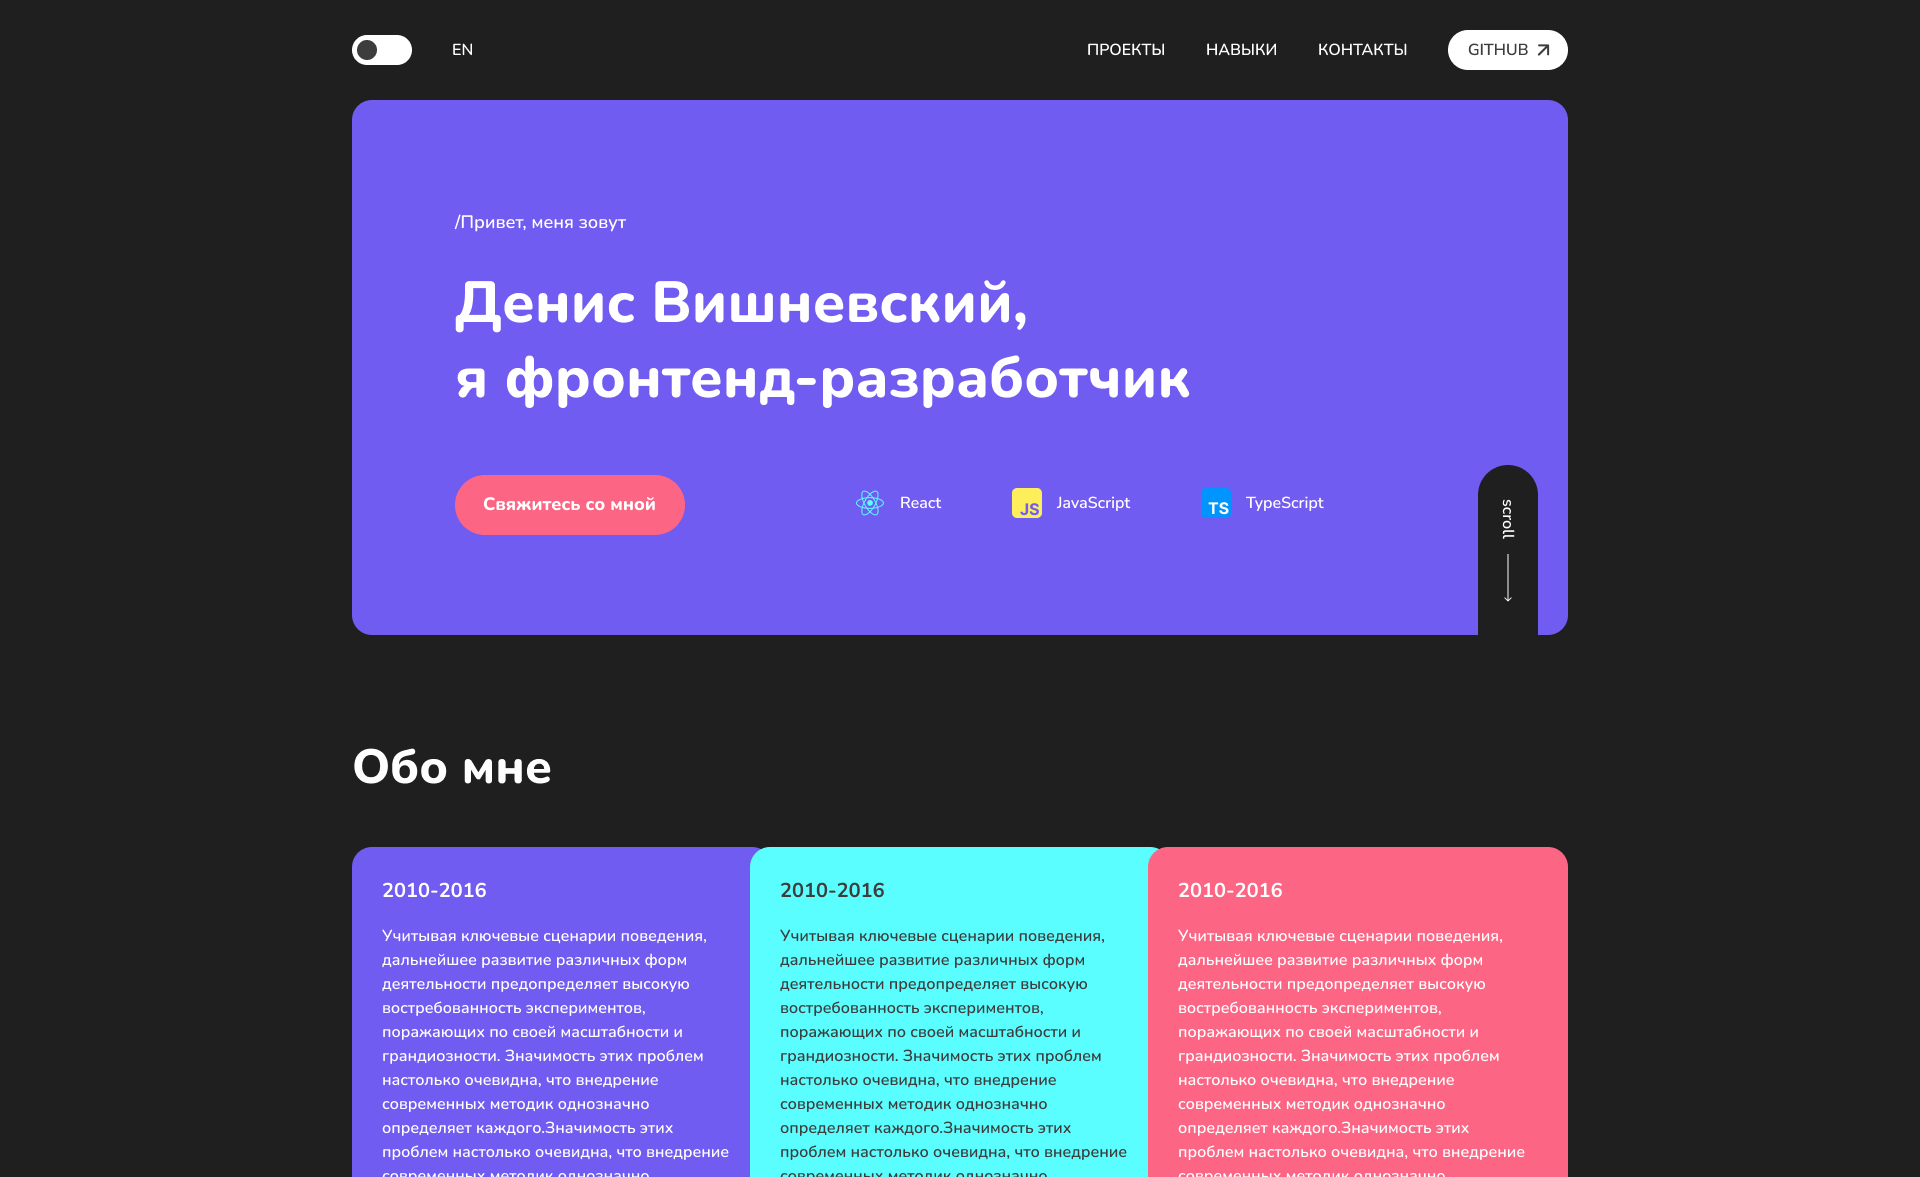
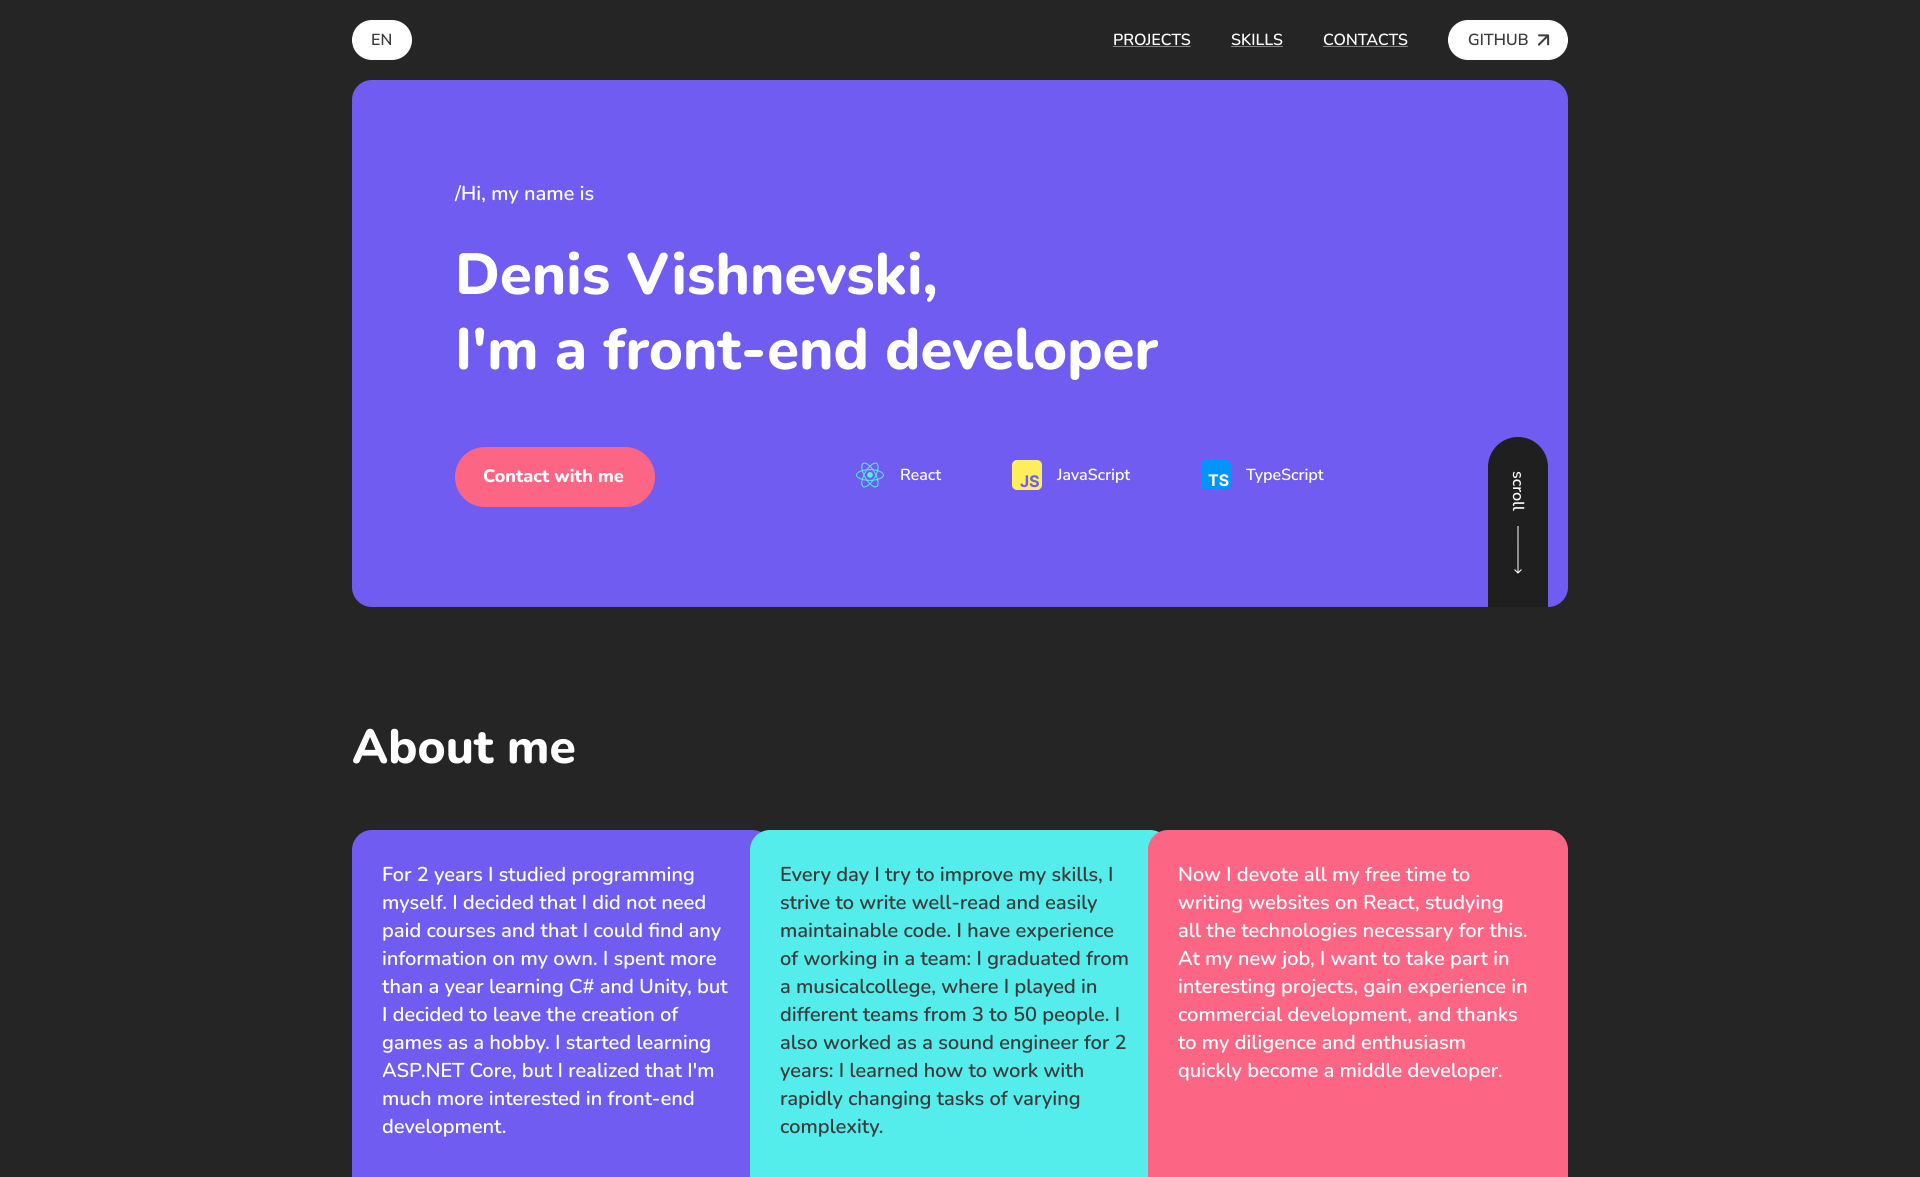
Site color change, bug fixes

diff --git a/src/components/Header.tsx b/src/components/Header.tsx
@@ -20,7 +20,6 @@ function Header(props: Props) {
    const { translate, changeLanguage } = props
    const [languageIcon, setLanguageIcon] = useState<string>("EN");
    const [languageButtonOffset, setLanguageButtonOffset] = useState<number>(0);
-   const [languageButtonTransition, setLanguageButtonTransition] = useState<string>('all 1s ease-in-out');
 
    useEffect(() => {
       if (i18next.language === 'en') {
@@ -49,13 +48,9 @@ function Header(props: Props) {
       if (isOpen) {
          window.addEventListener('resize', languageButtonOffsetUpdate);
          languageButtonOffsetUpdate();
-         setTimeout(() => {
-            setLanguageButtonTransition('none');
-         }, 1000)
       }
       else {
          window.removeEventListener('resize', languageButtonOffsetUpdate);
-         setLanguageButtonTransition('all 1s ease-in-out');
          setLanguageButtonOffset(0);
       }
    }
@@ -63,8 +58,8 @@ function Header(props: Props) {
       <header>
          <div className='highest_bar'>
             <div className="header_buttons">
-               <HamburgerMenu isAction={hamburgerMenuIsAction} translate={translate}/>
-               <button className="language_switcher" style={{ left: languageButtonOffset, transition: languageButtonTransition }} onClick={switchLanguage}>
+               <HamburgerMenu isAction={hamburgerMenuIsAction} translate={translate} />
+               <button className="language_switcher" style={{ left: languageButtonOffset }} onClick={switchLanguage}>
                   {languageIcon}
                </button>
             </div>
@@ -75,7 +70,7 @@ function Header(props: Props) {
                   <a href="#contacts">{translate("CONTACTS")}</a>
                </nav>
                <div style={{ position: 'relative', left: languageButtonOffset, transition: 'all .7s ease-in-out' }}>
-                  <GithubButton />
+                  <GithubButton link='https://github.com/DenisVishnevski'/>
                </div>
             </div>
          </div>

diff --git a/src/data/portfolio.ts b/src/data/portfolio.ts
@@ -10,7 +10,8 @@ export const portfolioBlocks: object[] = [
         title: 'Landing for a photographer',
         id: 'portfolio',
         technologies: [programmingBlocksArray[2], programmingBlocksArray[3]],
-        websiteLink: 'https://andreyrudenko20221008152249.azurewebsites.net/',
+        websiteLink: 'http://denisvishnevski-001-site1.ftempurl.com/',
+        githubLink: 'https://github.com/DenisVishnevski/AndreyRudenko',
         desktopImage: andreyRudenkoDesktop,
         mobileImage: andreyRudenkoMobile
     },
@@ -18,6 +19,7 @@ export const portfolioBlocks: object[] = [
         title: 'Personal portfolio website',
         technologies: [programmingBlocksArray[2], layoutingBlocksArray[2], {title: 'i18next', titleColor: '#12BFAF'}],
         websiteLink: '#1',
+        githubLink: 'https://github.com/DenisVishnevski/denis_vishnevski_project',
         desktopImage: denisVishnevskiDesktop,
         mobileImage: denisVishnevskiMobile
     },

diff --git a/src/scss/Header.scss b/src/scss/Header.scss
@@ -1,4 +1,5 @@
 $buttonColor: #FD6584;
+$backgroundColor: #212121;
 
 .highest_bar {
     width: 100%;
@@ -19,6 +20,7 @@ $buttonColor: #FD6584;
         border-radius: 20px;
         color: #2C2C2C;
         cursor: pointer;
+        transition: all 1s ease-in-out;
         z-index: 5;
     }
 }
@@ -101,7 +103,7 @@ $buttonColor: #FD6584;
     position: absolute;
     bottom: 0;
     right: 30px;
-    background-color: #2C2C2C;
+    background-color: $backgroundColor;
     width: 60px;
     height: 170px;
     border-radius: 100px 100px 0 0;
@@ -166,7 +168,7 @@ $buttonColor: #FD6584;
 @media screen and (max-width: 767px) {
     .highest_bar {
         .language_switcher {
-            background-color: #2C2C2C;
+            background-color: $backgroundColor;
             color: #FFFFFF;
             cursor: pointer;
         }

diff --git a/src/components/UI/DroprightMenu.tsx b/src/components/UI/DroprightMenu.tsx
@@ -7,16 +7,13 @@ import emailIcon from '../../assets/images/emailIcon.svg';
 import ContactButton from './ContactButton';
 
 interface Props {
-    isOpenMenu: boolean
+    isOpenMenu: boolean,
     translate: (value: string) => string,
     onNavClick: () => void
 }
-interface State {
-    droprightMenuHeight: number
-}
 function DroprightMenu(props: Props) {
     const { translate, isOpenMenu, onNavClick } = props
-    const [menuHeight, setMenuHeight] = useState<number>(100);
+    const [menuHeight, setMenuHeight] = useState<number>(.001);
     const [contactsBlocksOffset, setContactsBlocksOffset] = useState<number>(-200);
 
     useEffect(() => {

diff --git a/src/components/Portfolio.tsx b/src/components/Portfolio.tsx
@@ -48,7 +48,7 @@ function Portfolio(props: { translate: (value: string) => string }) {
                                 </div>
                             </div>
                             <div className="portfolio_buttons">
-                                <GithubButton />
+                                <GithubButton link={block.githubLink}/>
                                 <a href={block.websiteLink} className='portfolio_link' target="_blank">
                                     {translate("Go to website")}
                                 </a>

diff --git a/src/components/UI/GithubButton.tsx b/src/components/UI/GithubButton.tsx
@@ -2,9 +2,9 @@ import * as React from 'react';
 import '../../scss/UI/GithubButton.scss';
 import linkArrow from '../../assets/images/linkArrow.svg';
 
-function GithubButton() {
+function GithubButton(props: {link: string}) {
     return (
-        <a className="github_button" href="https://github.com/DenisVishnevski" target="_blank">
+        <a className="github_button" href={props.link} target="_blank">
             <h3>GITHUB</h3>
             <img src={linkArrow} alt="Мой GitHub" />
         </a>

diff --git a/src/components/Footer.tsx b/src/components/Footer.tsx
@@ -28,7 +28,7 @@ function Footer(props: { translate: (value: string) => string }) {
                         <img src={linkArrow} alt="Мой GitHub" />
                     </a>
                 </div>
-                <h3>Дизайн сайта @sanya_uiux</h3>
+                <h3>Дизайн сайта <a href="https://www.behance.net/11c1d013">@sanya_uiux</a></h3>
             </div>
         </footer>
     );

diff --git a/public/index.html b/public/index.html
@@ -1,5 +1,5 @@
 <!DOCTYPE html>
-<html lang="en">
+<html lang="ru">
   <head>
     <meta charset="utf-8" />
     <link rel="icon" href="%PUBLIC_URL%/favicon.ico" />
@@ -13,7 +13,7 @@
 
     <link rel="manifest" href="%PUBLIC_URL%/manifest.json" />
 
-    <title>React App</title>
+    <title>Denis Vishnevski</title>
   </head>
   <body>
     <noscript>You need to enable JavaScript to run this app.</noscript>

diff --git a/src/scss/UI/HamburgerMenu.scss b/src/scss/UI/HamburgerMenu.scss
@@ -68,7 +68,7 @@
     flex-direction: column;
     align-items: center;
     justify-content: space-between;
-    background-color: #2C2C2C;
+    background-color: #212121;
     transition: all .5s ease-in-out;
 
     &> :first-child {
@@ -97,6 +97,7 @@
 
         a {
             display: flex;
+            justify-content: center;
 
             img {
                 width: 50px;

diff --git a/src/scss/Footer.scss b/src/scss/Footer.scss
@@ -10,6 +10,13 @@ footer {
         display: flex;
         align-items: center;
         flex-direction: column;
+        h3 {
+            a {
+                &:hover {
+                    color: #55ECEC;
+                }
+            }
+        }
     }
 }
 .contacts_block {

diff --git a/src/scss/Portfolio.scss b/src/scss/Portfolio.scss
@@ -18,7 +18,7 @@ $buttonColor: #FD6584;
     height: 300px;
     display: flex;
     justify-content: space-between;
-    background-color: #3D3D3E;
+    background-color: #3a3a3a;
     border-radius: 20px;
     transition: all .5s ease-in-out;
     margin-bottom: 30px;

diff --git a/src/scss/AboutMe.scss b/src/scss/AboutMe.scss
@@ -21,7 +21,7 @@
     & > :nth-child(even) {
         @extend %blocks;
         background-color: #55ECEC;
-        color: #2C2C2C;
+        color: #212121;
     }
     & > :last-child {
         @extend %blocks;
